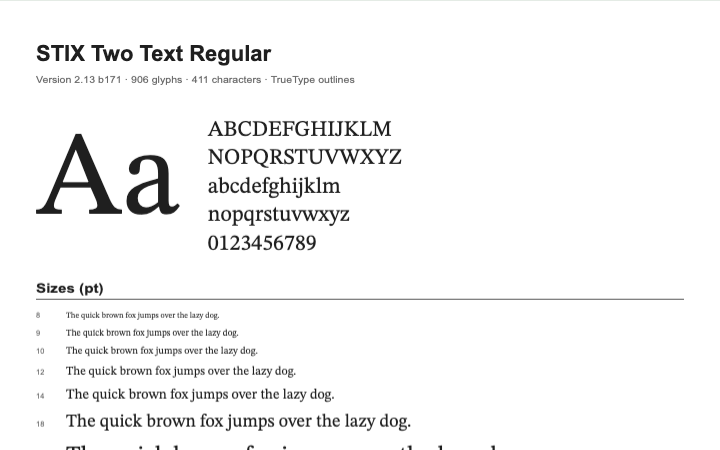
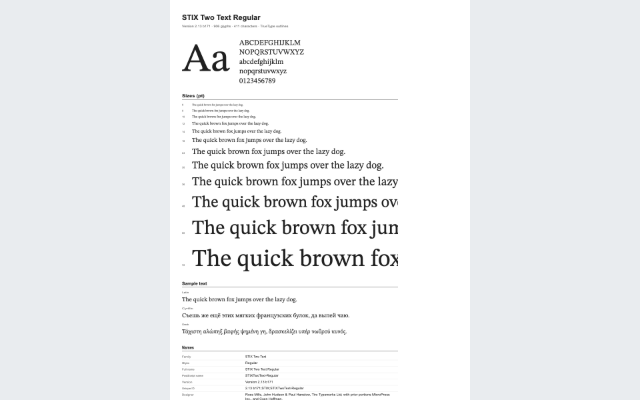
feat(demo): generate the gallery thumbnails from the cards
The old preview script passed an empty roles list to the render Worker, so
the BDF, Word, PowerPoint and font cards were blank, and its card list was
stale: two cards reused another card's image.

make-previews.mjs now reads the cards from index.html (image name plus the
first data-sample link, or the one marked data-preview) and renders each
card's sample through the same converter and viewer the demo uses: the first
page of a fixed or flow view, the top of a scroll view through the
continuous request, and a sheet region for CSV and XLSX. It refuses to write
a blank image or to share one preview between cards that open different
samples, and --check renders without writing so CI fails when a checked-in
thumbnail no longer matches the build.

diff --git a/demo/index.html b/demo/index.html
@@ -125,11 +125,11 @@
           <div class="card-body"><p class="card-kicker">FONT</p><h3>フォント</h3><p>文字の形やフォント情報を、ブラウザ内で見本に変換して表示します。</p><div class="card-links"><a href="#viewer" data-sample="font">ビューアで開く <span aria-hidden="true">↗</span></a><a href="./formats.html#font">形式の説明</a></div></div>
         </article>
         <article class="format-card">
-          <img src="./previews/bdf.png" alt="上流サンプル PDF のプレビュー" width="640" height="400" loading="lazy">
-          <div class="card-body"><p class="card-kicker">PDF</p><h3>上流のサンプル</h3><p>上流 BDF のテスト用 PDF をそのまま変換します。Chrome・ReportLab・WeasyPrint が作った文書で、タグ付き構造やマスクの一部はまだ未対応です。</p><div class="card-links"><a href="#viewer" data-sample="pdf-report">レポートを開く <span aria-hidden="true">↗</span></a><a href="#viewer" data-sample="pdf-chrome-doc">Chrome 文書 <span aria-hidden="true">↗</span></a><a href="#viewer" data-sample="pdf-chrome-slides">スライド <span aria-hidden="true">↗</span></a><a href="#viewer" data-sample="pdf-chrome-masks">マスク <span aria-hidden="true">↗</span></a><a href="#viewer" data-sample="pdf-cjk">CJK <span aria-hidden="true">↗</span></a><a href="#viewer" data-sample="pdf-webfonts">Web フォント <span aria-hidden="true">↗</span></a><a href="#viewer" data-sample="pdf-reportlab">ReportLab <span aria-hidden="true">↗</span></a><a href="./formats.html#pdf">形式の説明</a></div></div>
+          <img src="./previews/chrome-slides.png" alt="上流サンプル PDF のプレビュー" width="640" height="400" loading="lazy">
+          <div class="card-body"><p class="card-kicker">PDF</p><h3>上流のサンプル</h3><p>上流 BDF のテスト用 PDF をそのまま変換します。Chrome・ReportLab・WeasyPrint が作った文書で、タグ付き構造やマスクの一部はまだ未対応です。</p><div class="card-links"><a href="#viewer" data-sample="pdf-report">レポートを開く <span aria-hidden="true">↗</span></a><a href="#viewer" data-sample="pdf-chrome-slides" data-preview>スライド <span aria-hidden="true">↗</span></a><a href="#viewer" data-sample="pdf-chrome-doc">Chrome 文書 <span aria-hidden="true">↗</span></a><a href="#viewer" data-sample="pdf-chrome-masks">マスク <span aria-hidden="true">↗</span></a><a href="#viewer" data-sample="pdf-cjk">CJK <span aria-hidden="true">↗</span></a><a href="#viewer" data-sample="pdf-webfonts">Web フォント <span aria-hidden="true">↗</span></a><a href="#viewer" data-sample="pdf-reportlab">ReportLab <span aria-hidden="true">↗</span></a><a href="./formats.html#pdf">形式の説明</a></div></div>
         </article>
         <article class="format-card">
-          <img src="./previews/pptx.png" alt="PowerPoint 機能サンプルのプレビュー" width="640" height="400" loading="lazy">
+          <img src="./previews/features-pptx.png" alt="PowerPoint 機能サンプルのプレビュー" width="640" height="400" loading="lazy">
           <div class="card-body"><p class="card-kicker">PRESENTATION</p><h3>PowerPoint 機能</h3><p>上流の <code>features.pptx</code> をそのまま変換します。グラデーション、表、画像、グループ図形を含むスライドです。</p><div class="card-links"><a href="#viewer" data-sample="pptx-features">スライドを開く <span aria-hidden="true">↗</span></a><a href="./formats.html#pptx">形式の説明</a></div></div>
         </article>
       </div>

diff --git a/demo/README.md b/demo/README.md
@@ -27,9 +27,29 @@ The gallery samples are the upstream MIT-licensed files, byte for byte:
 `samples/basic.docx`, `basic.pptx`, `basic.xlsx`, `features.xlsx`,
 `basic.csv`, `basic.md`, `cairo-cff.pdf` and
 `images-jpx-jbig2.pdf`. The PowerPoint card opens `basic.pptx`, the Word
-card `basic.docx` and the Markdown card `basic.md`. The previews
-`previews/docx.png`, `previews/markdown.png` and `previews/pptx.png` were
-rendered from these upstream files by the MoonBit native converter Worker.
+card `basic.docx` and the Markdown card `basic.md`. Every card image in
+`previews/` is rendered from the sample that card's links open, by the
+MoonBit native converter Worker and the render Worker (see below).
+
+The gallery thumbnails are checked in and generated, not drawn by hand.
+`node demo/make-previews.mjs` (or `npm run previews:demo`) reads the cards
+from `index.html`: the image name comes from the card's
+`<img src="./previews/NAME.png">`, and the sample from the card's first
+`<a data-sample="ID">` link, resolved through the `data-sample` map in
+`app.js`. A card that opens several documents marks the one its image shows
+with `data-preview` (the upstream PDF card shows `chrome-slides.pdf`). The
+script opens each sample through the public viewer API on a blank page served
+from `_build/pages`, so a preview is what the demo draws: the first page of a
+`fixed` or `flow` view, the top of a `scroll` view (Markdown, font specimen)
+through the continuous request, and a 900×560 region of a `sheet` view
+(CSV, XLSX). It composes a 640×400 card on `#e9ecef`, refuses to write a
+blank image, and fails when a card shares its preview file with a card that
+opens a different sample. `--only name[,name]` regenerates a subset,
+`--out DIR` writes elsewhere, and `--check` renders without writing and
+exits 1 when a checked-in preview differs. `npm run test:previews` runs
+`--check` and the sample hashes; CI runs it after `build:demo`, so a
+converter or viewer change that alters a card image fails until the previews
+are regenerated and committed.
 
 The upstream sample card and the converter page also open the upstream PDF
 fixtures verbatim: `chrome-doc.pdf`, `chrome-slides.pdf`, `chrome-masks.pdf`,
@@ -110,6 +130,8 @@ npx playwright install chromium
 npm run build:demo   # JS build, wasm-gc export bridge, demo assets
 npm run test:demo
 npm run test:export   # export tabs, benchmark table and the wasm-gc page
+npm run previews:demo # rewrite demo/previews/*.png from the gallery cards
+npm run test:previews # card previews are current and samples match upstream
 npm run bench:demo    # re-measure and rewrite demo/benchmarks.json
 npm run bench:upstream -- --bdf /tmp/bdf-go   # upstream Go column
 python3 -m http.server --directory _build/pages 8000
